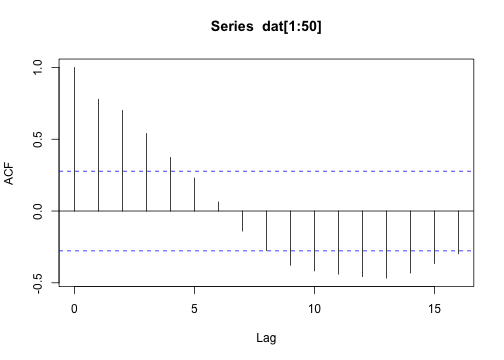
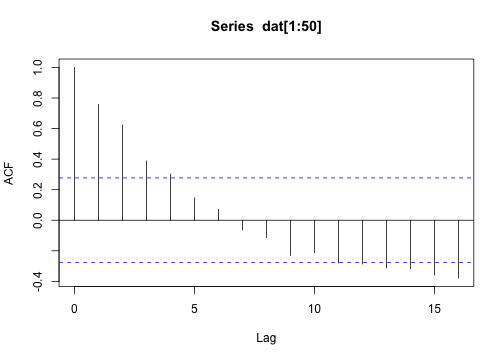
fix link to chinook data

diff --git a/ARMA-Models.html b/ARMA-Models.html
@@ -324,7 +324,7 @@ $(document).ready(function () {
 </div>
 
 
-<p><em>For labs</em>: Click the ‘Rmd file’ link and download to your RWorkflow folder. Open RStudio. Switch to your RWorkflow project, by clicking button in top right (create a new project if you did not do this step before). If you need the landings data, download <a href="https://fish-forecast.github.io/Catch-Forecasting-INCOIS/landings.RData">here</a>.</p>
+<p><em>For labs</em>: Click the ‘Rmd file’ link and download to your RWorkflow folder. Open RStudio. Switch to your RWorkflow project, by clicking button in top right (create a new project if you did not do this step before). If you need the landings data, download <a href="https://fish-forecast.github.io/Catch-Forecasting-INCOIS/landings.RData">landings.RData</a>. If you need the landings data, download <a href="https://fish-forecast.github.io/Catch-Forecasting-INCOIS/chinook.RData">chinook.RData</a>.</p>
 <ul>
 <li><p>Lecture 1 <a href="Forecasting_3-1_-_ARMA_Intro.html">Introduction to ARMA Models</a></p></li>
 <li><p>Lab 1 Intro to ARMA models and diagnostic plots: <a href="ARMA%20Lab%201.html">ARMA Lab 1</a> - <a href="Labs/ARMA%20Lab%201.Rmd">Rmd file</a></p></li>

diff --git a/setup.html b/setup.html
@@ -331,7 +331,9 @@ Go to <a href="https://cran.r-project.org/" class="uri">https://cran.r-project.o
 <li><p><strong>RStudio:</strong> Install the latest version of RStudio. Get it from <a href="https://www.rstudio.com/products/rstudio/download" class="uri">https://www.rstudio.com/products/rstudio/download</a> and install the appropriate one for your OS.</p></li>
 </ul>
 <p>For full set-up instructions including Git and GitHub (optional), go to <a href="https://rverse-tutorials.github.io/Fish-Forecast-Training-Course/set-up.html">full setup</a></p>
-<p>##Download Files and Packages</p>
+</div>
+<div id="download-files-and-packages" class="section level2">
+<h2>Download Files and Packages</h2>
 <ol style="list-style-type: decimal">
 <li>Go to <a href="https://github.com/Fish-Forecast/Catch-Forecasting-Files" class="uri">https://github.com/Fish-Forecast/Catch-Forecasting-Files</a> and copy all the files into a directory.</li>
 </ol>

diff --git a/Forecasting_3-1_-_ARMA_Intro.html b/Forecasting_3-1_-_ARMA_Intro.html
@@ -109,7 +109,7 @@ cor(dat[2:TT], dat[1:(TT-1)])
 ```
 
 ```
-## [1] 0.7248572
+## [1] 0.7239909
 ```
 
 ```r
@@ -117,7 +117,7 @@ cor(dat[11:TT], dat[1:(TT-10)])
 ```
 
 ```
-## [1] 0.1170721
+## [1] 0.1588452
 ```
 
 &lt;img src="Forecasting_3-1_-_ARMA_Intro_files/figure-html/acf2-1.png" style="display: block; margin: auto;" /&gt;

diff --git a/Forecasting_2_-_TV_Regression.html b/Forecasting_2_-_TV_Regression.html
@@ -137,7 +137,7 @@ Box.test(rnorm(100), type="Ljung-Box")
 ## 	Box-Ljung test
 ## 
 ## data:  rnorm(100)
-## X-squared = 1.0855, df = 1, p-value = 0.2975
+## X-squared = 1.7783, df = 1, p-value = 0.1824
 ```
 
 The null hypothesis is not rejected.  These are not serially correlated.
